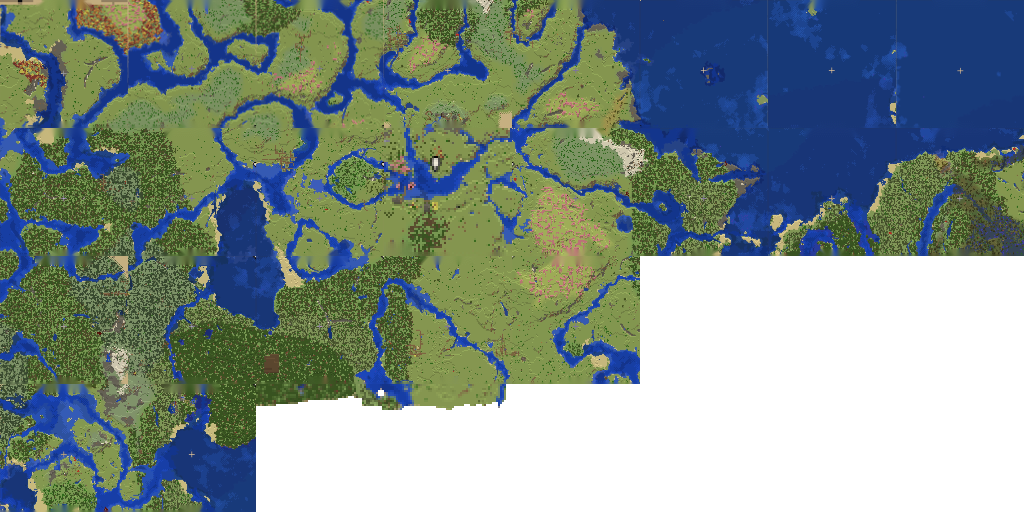
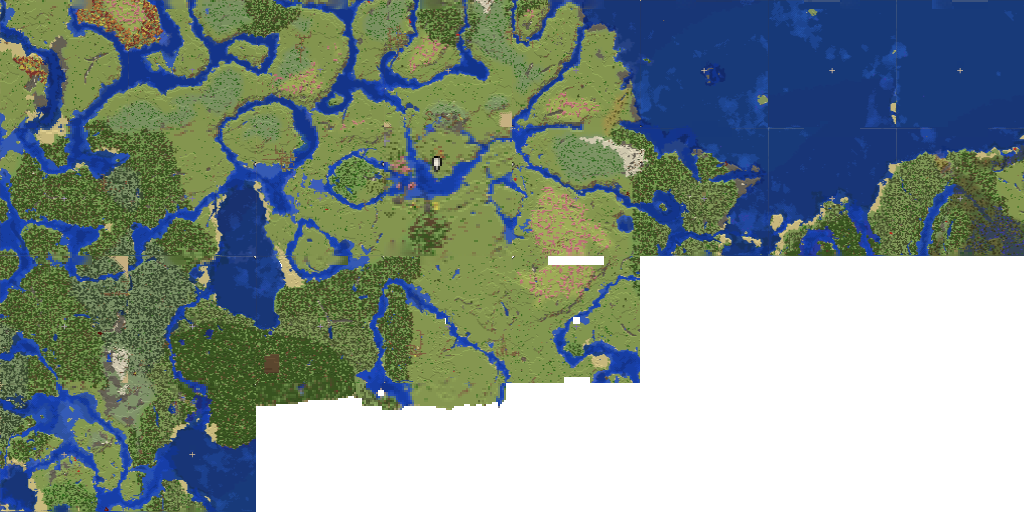
Perspective-rectify tiles from detected map borders; fill HUD-covered pixels from level-3 instead of inpainting

diff --git a/tools/rectify.py b/tools/rectify.py
@@ -1,0 +1,79 @@
+import numpy as np, cv2, glob, json, sys
+from PIL import Image
+from crop import crop2, loose
+def fit_line(pts):
+    pts=np.array(pts,float)
+    if len(pts)<10: return None
+    best=None
+    for _ in range(200):
+        i,j=np.random.choice(len(pts),2,replace=False); p,q=pts[i],pts[j]
+        d=q-p; n=np.linalg.norm(d)
+        if n<1: continue
+        nrm=np.array([-d[1],d[0]])/n; dist=np.abs((pts-p)@nrm)
+        inl=dist<2.0
+        if best is None or inl.sum()>best[0]: best=(inl.sum(),inl)
+    inl=pts[best[1]]
+    # total least squares
+    c=inl.mean(0); u,s,vt=np.linalg.svd(inl-c); d=vt[0]
+    return c,d
+def inter(l1,l2):
+    c1,d1=l1;c2,d2=l2; A=np.array([d1,-d2]).T; t=np.linalg.solve(A,c2-c1); return c1+t[0]*d1
+def edge_points(m,side,l,t,r,b,H,W):
+    pts=[]
+    if side in('left','right'):
+        for y in range(int(t+(b-t)*0.08),int(b-(b-t)*0.12),6):
+            if side=='left':
+                xs=range(max(0,l-50),min(W,l+60))
+            else:
+                xs=range(min(W-1,r+50),max(0,r-60),-1)
+            run=0
+            for x in xs:
+                run=0 if m[y,x] else run+1
+                if run>=3: pts.append((x-2,y)); break
+    else:
+        for x in range(int(l+(r-l)*0.05),int(r-(r-l)*0.05),6):
+            if side=='top' and (r-l)*0.28+l < x < (r-l)*0.72+l: continue   # HUD icons
+            if side=='bottom' and (r-l)*0.45+l < x < (r-l)*0.6+l: continue # XP number
+            ys=range(max(0,t-50),min(H,t+60)) if side=='top' else range(min(H-1,b+40),max(0,b-60),-1)
+            run=0
+            for y in ys:
+                run=0 if m[y,x] else run+1
+                if run>=3: pts.append((x,y-2 if side=='top' else y+2)); break
+    return pts
+def beige(a):
+    r,g,b=[a[...,i].astype(int) for i in range(3)]
+    return (r>150)&(g>130)&(b>80)&(r-b>40)&(r-b<110)&(r-g>5)&(r-g<45)
+def bottom_points(a,l,t,r,b):
+    m=beige(a); H=a.shape[0]
+    cols=np.r_[int(l+(r-l)*0.1):int(l+(r-l)*0.42), int(l+(r-l)*0.62):int(r-(r-l)*0.1)]
+    fr=m[:,cols].mean(1); band=[y for y in range(max(0,b-40),min(H,b+60)) if fr[y]>0.6]
+    if not band: return []
+    y0=band[0]+2; pts=[]
+    for x in range(int(l+(r-l)*0.05),int(r-(r-l)*0.05),6):
+        if (r-l)*0.45+l < x < (r-l)*0.6+l: continue
+        y=y0
+        while y>0 and m[y,x]: y-=1
+        if y0-y<40: pts.append((x,y+1))
+    return pts
+def rectify(path,size=128,debug=None):
+    im,(l,t,r,b)=crop2(path); a=np.array(im); H,W=a.shape[:2]; m=loose(a)
+    lines={}
+    for s in ('left','right','top'):
+        ln=fit_line(edge_points(m,s,l,t,r,b,H,W)); lines[s]=ln
+    lines['bottom']=fit_line(bottom_points(a,l,t,r,b))
+    if lines['bottom'] is None or lines['top'] is None or lines['left'] is None or lines['right'] is None:
+        return None
+    tl=inter(lines['top'],lines['left']); tr=inter(lines['top'],lines['right']); br=inter(lines['bottom'],lines['right']); bl=inter(lines['bottom'],lines['left'])
+    src=np.float32([tl,tr,br,bl]); dst=np.float32([[0,0],[size,0],[size,size],[0,size]])
+    M=cv2.getPerspectiveTransform(src,dst)
+    bgr=cv2.cvtColor(a,cv2.COLOR_RGB2BGR)
+    big=cv2.warpPerspective(bgr,M*np.array([[4,0,0],[0,4,0],[0,0,1]]) if False else cv2.getPerspectiveTransform(src,dst*4),(size*4,size*4),flags=cv2.INTER_LINEAR)
+    out=cv2.resize(big,(size,size),interpolation=cv2.INTER_AREA)
+    return out, src
+if __name__=='__main__':
+    for p in sorted(glob.glob('/mnt/user-data/uploads/IMG_94[5-8]*.jpeg')):
+        n=p.split('/')[-1][4:8]
+        if n in ('9485','9486','9487','9488','9489','9469'): continue
+        r=rectify(p)
+        if r is None: print(n,'FAIL'); continue
+        out,src=r; cv2.imwrite(f'rect_IMG_{n}.png',out); print(n, src.round().tolist())

diff --git a/tools/refine.py b/tools/refine.py
@@ -1,0 +1,30 @@
+import cv2, numpy as np, json, glob
+from rectify import rectify
+l2=json.load(open('assign.json')); l2.update({'9475':(7,1),'9476':(4,2)})
+l3={'9477':(0,0),'9478':(2,0),'9480':(4,0),'9483':(6,0),'9479':(0,2),'9484':(2,2)}
+sift=cv2.SIFT_create(nfeatures=8000); bf=cv2.BFMatcher()
+# reference: level-3 tiles at 512px (2 blocks/px)
+ref={}
+for n,(fx,fy) in l3.items():
+    t=cv2.imread(f'rect_IMG_{n}.png') if n!='9484' else cv2.imread('tiles_IMG_9484.png')
+    ref[(fx,fy)]=cv2.resize(t,(512,512),interpolation=cv2.INTER_CUBIC)
+report={}
+for n,(fx,fy) in l2.items():
+    key=(fx//2*2,fy//2*2)
+    if key not in ref: print(n,'no ref'); continue
+    R=ref[key]; qx,qy=(fx%2)*256,(fy%2)*256
+    big=cv2.resize(cv2.imread(f'rect_IMG_{n}.png'),(256,256),interpolation=cv2.INTER_CUBIC)
+    k1,d1=sift.detectAndCompute(cv2.cvtColor(big,cv2.COLOR_BGR2GRAY),None)
+    k2,d2=sift.detectAndCompute(cv2.cvtColor(R,cv2.COLOR_BGR2GRAY),None)
+    if d1 is None or d2 is None: print(n,'nofeat'); continue
+    good=[m for m,nn in bf.knnMatch(d1,d2,k=2) if m.distance<0.8*nn.distance]
+    if len(good)<8: print(n,'few',len(good)); continue
+    src=np.float32([k1[m.queryIdx].pt for m in good]); dst=np.float32([k2[m.trainIdx].pt for m in good])-[qx,qy]
+    H,mask=cv2.estimateAffinePartial2D(src,dst,method=cv2.RANSAC,ransacReprojThreshold=3.0)
+    if H is None: print(n,'noH'); continue
+    inl=int(mask.sum()); sc=np.hypot(H[0,0],H[0,1]); tx,ty=H[0,2],H[1,2]
+    # corner shift at 128-scale: where does big's (0,0) and (256,256) land
+    c=cv2.transform(np.float32([[[0,0],[256,256]]]),H)[0]/2
+    print(n,f'inl {inl:3d} scale {sc:.3f} tl {c[0].round(1)} br {c[1].round(1)}')
+    report[n]=dict(inl=inl,scale=float(sc),tl=c[0].tolist(),br=c[1].tolist())
+json.dump(report,open('refine.json','w'),indent=1)

diff --git a/tools/compose.py b/tools/compose.py
@@ -20,9 +20,13 @@ for n,(fx,fy) in l3.items():
     else: m[200:]=False
     put(up,fx*128,fy*128,m)
 l2=json.load(open('assign.json')); l2.update({'9475':(7,1),'9476':(4,2)})
+def hudmask(t):
+    m=np.zeros((128,128),bool); m[0:9,36:92]=True; m[121:128,52:78]=True; m[127:128,:]=True; m[61:68,61:68]=True
+    hsv=cv2.cvtColor(t,cv2.COLOR_BGR2HSV); gray=(hsv[...,1]<40)&(hsv[...,2]>60)&(hsv[...,2]<200); m[:12]|=gray[:12]
+    return m
 for n,(fx,fy) in l2.items():
-    t=cv2.imread(f'clean_IMG_{n}.png')
-    put(t,fx*128,fy*128)
+    t=cv2.imread(f'rect_IMG_{n}.png')
+    put(t,fx*128,fy*128,~hudmask(t))
 cv2.imwrite('world.png',canvas)
 json.dump({'x0':X0,'z0':Z0,'blocks_per_px':4,'w':W,'h':H,'level2':l2,'level3':l3},open('world.json','w'),indent=1)
 print('explored px',int((canvas[...,3]>0).sum()))
